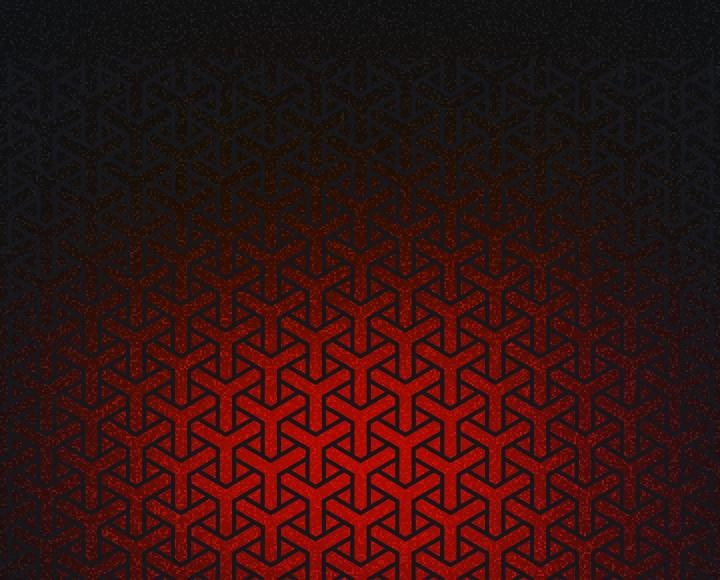
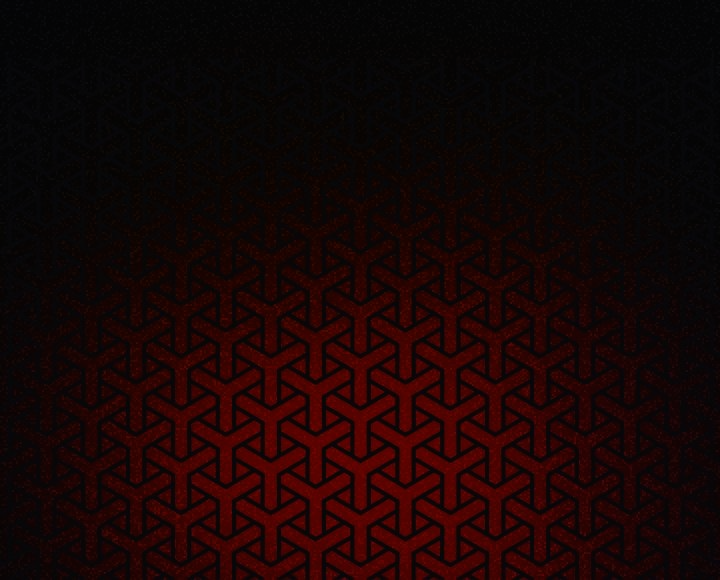
fix: bg-red. remove transform on home

diff --git a/lib/features/wallet/ui/widgets/wallet_home_top_section.dart b/lib/features/wallet/ui/widgets/wallet_home_top_section.dart
@@ -64,13 +64,7 @@ class _UIState extends State<_UI> {
 
   @override
   Widget build(BuildContext context) {
-    return Stack(
-      fit: StackFit.expand,
-      children: [
-        Transform.rotate(angle: 3.141, child: image),
-        const _Amounts(),
-      ],
-    );
+    return Stack(fit: StackFit.expand, children: [image, const _Amounts()]);
   }
 }
 
